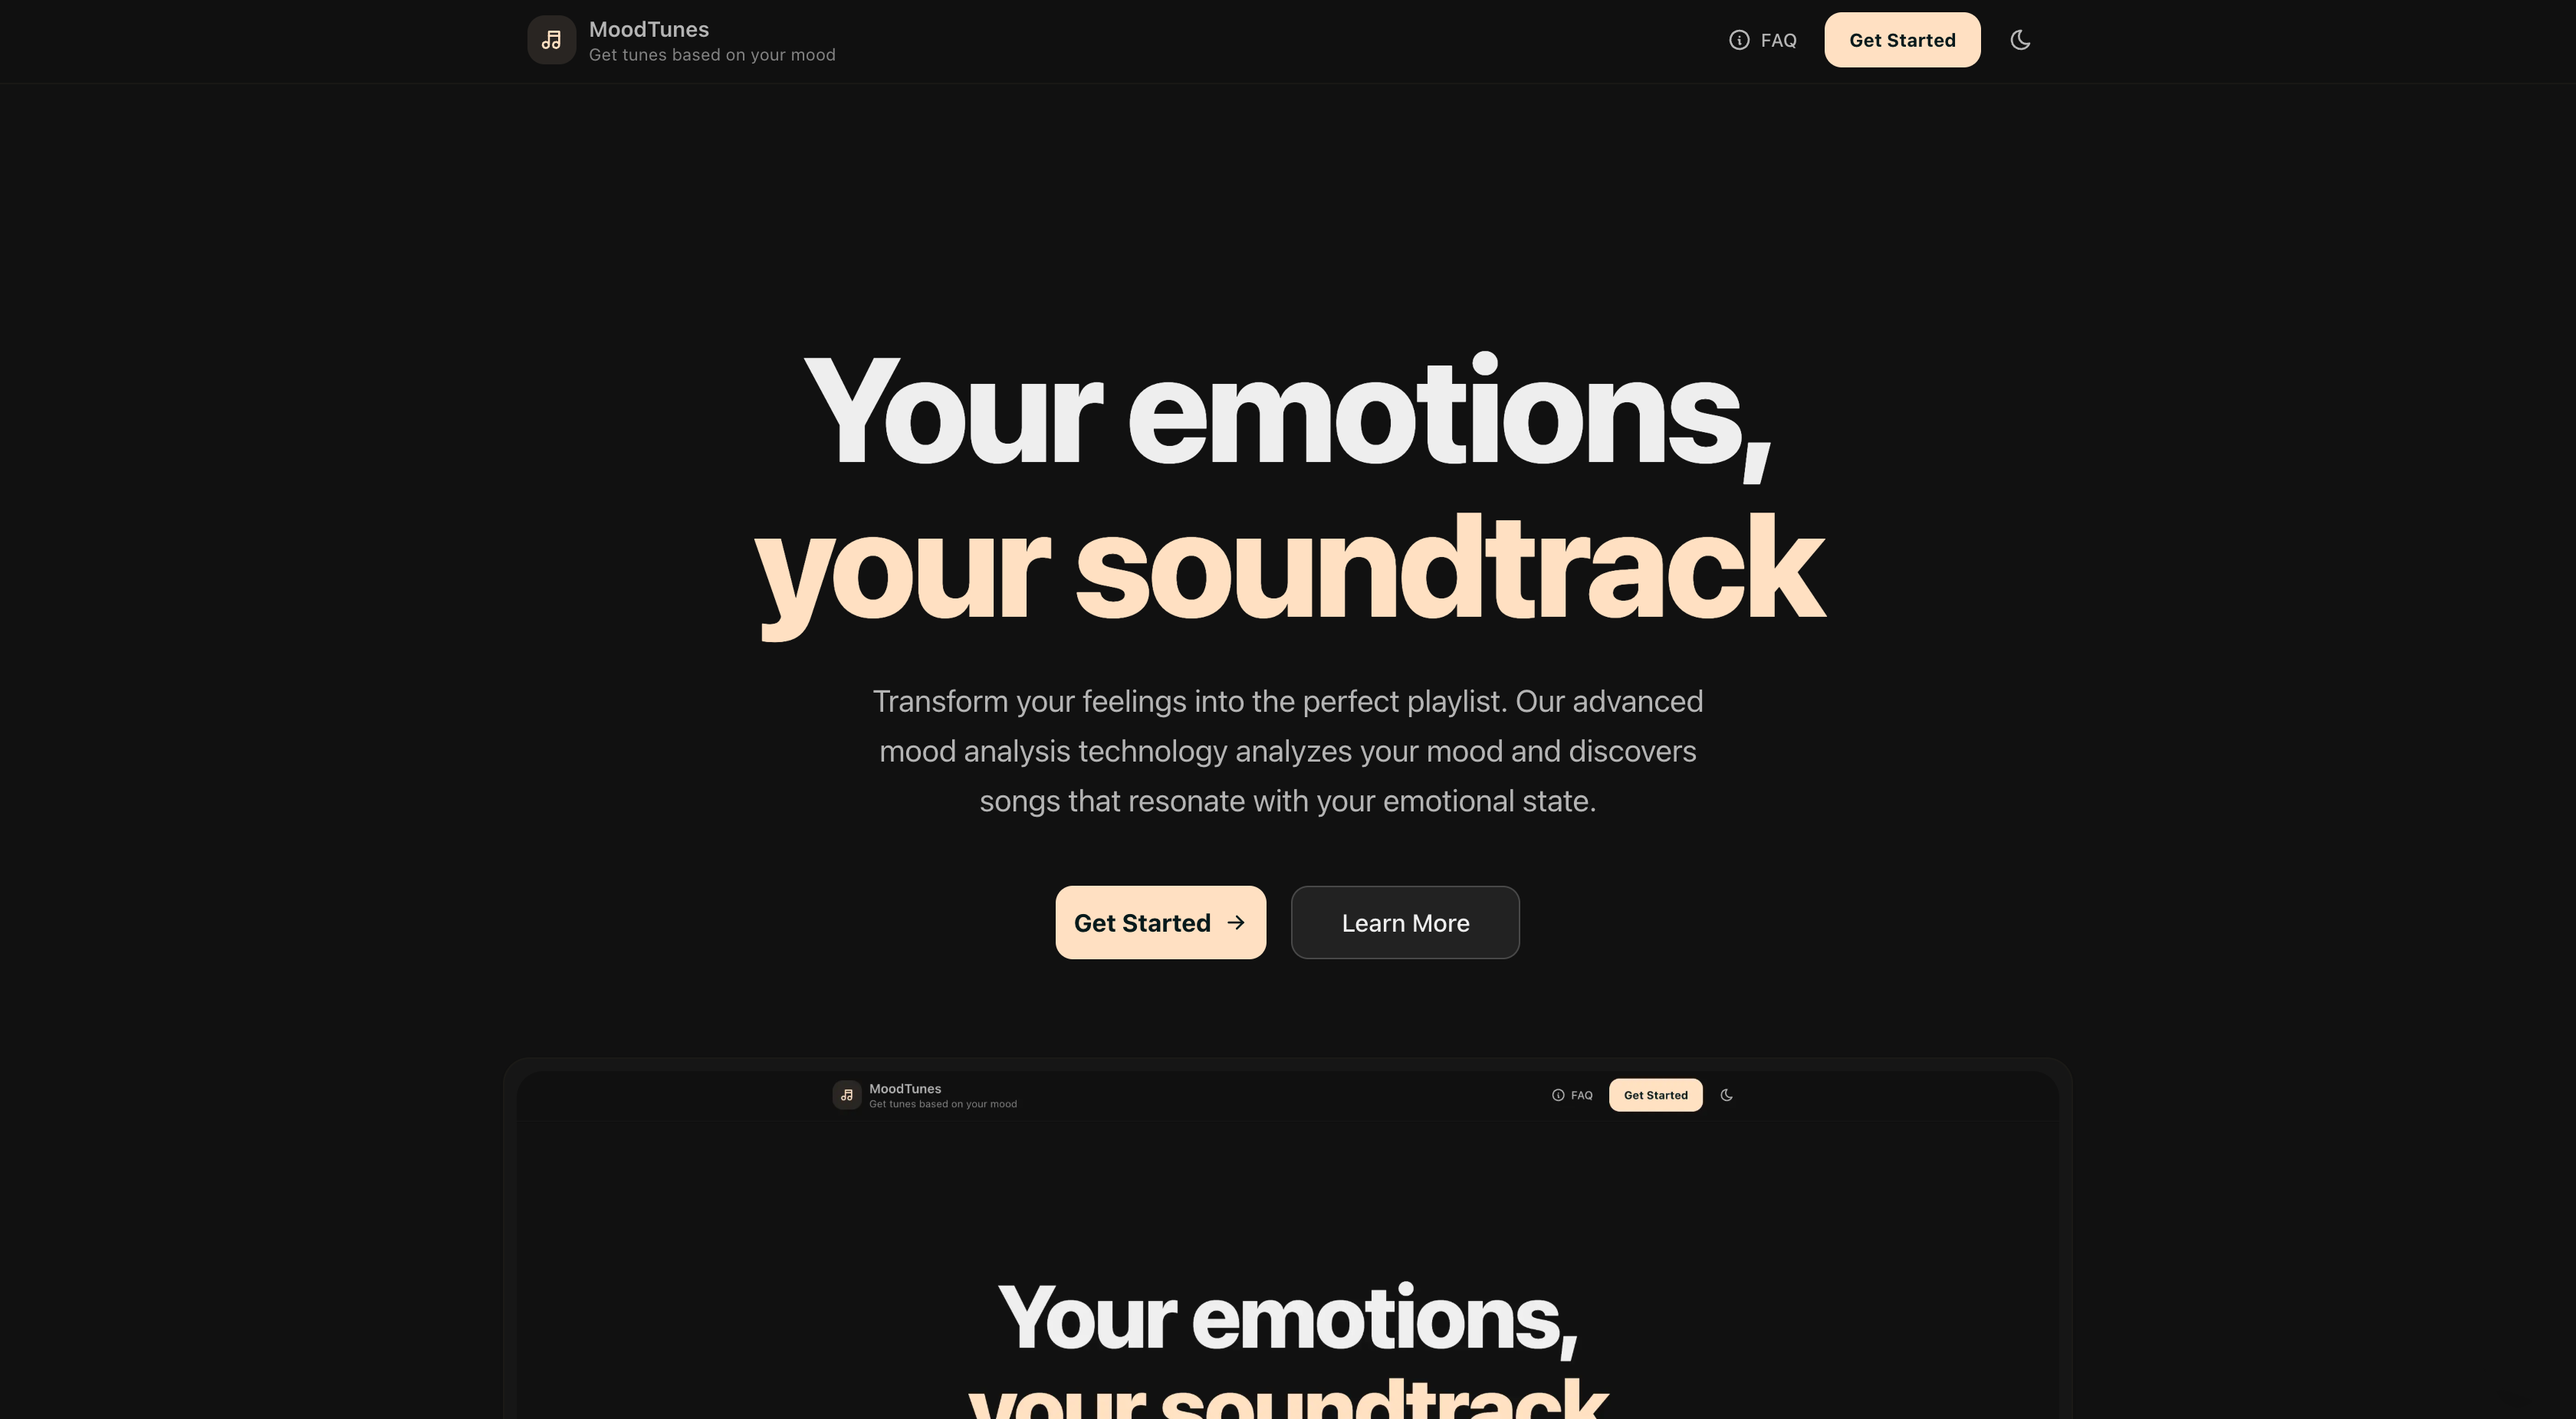
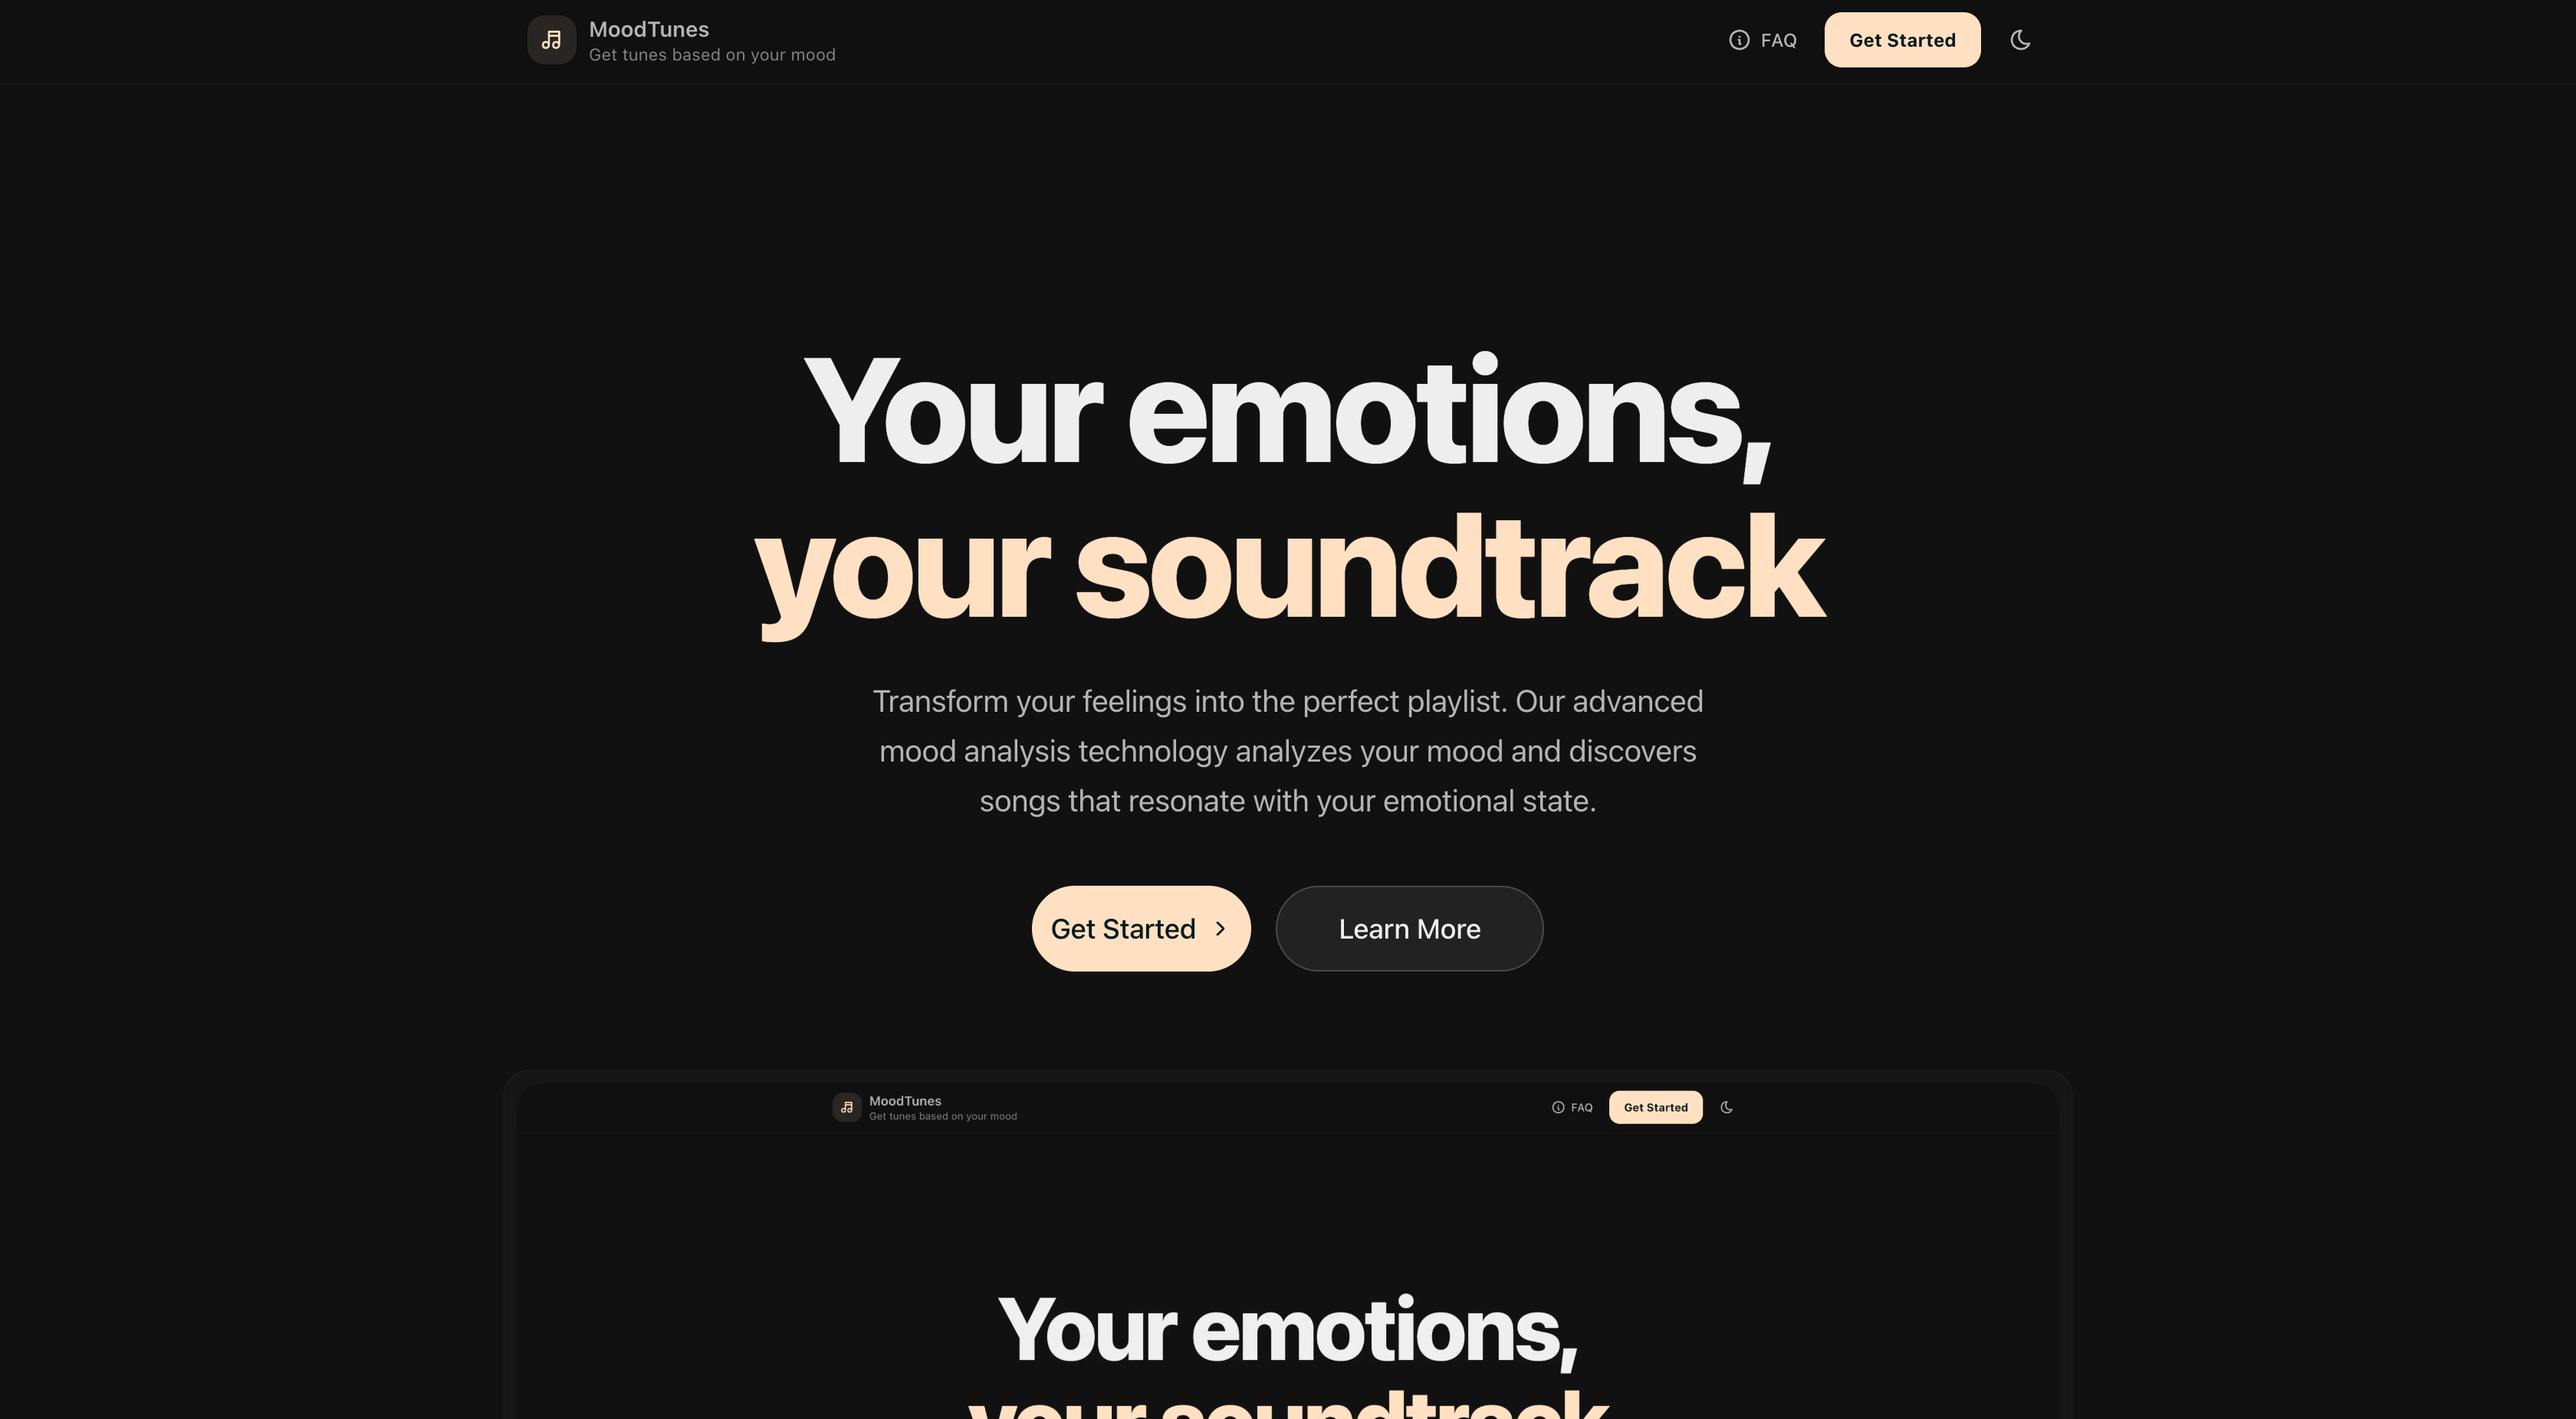
fix landing buttons

diff --git a/src/app/page.jsx b/src/app/page.jsx
@@ -9,7 +9,7 @@ import {
   IconSearch,
   IconMusic,
   IconMessageHeart,
-  IconArrowRight,
+  IconChevronRight,
 } from "@tabler/icons-react";
 import { Button } from "@/components/ui/button";
 import { Card, CardContent, CardHeader, CardTitle } from "@/components/ui/card";
@@ -121,16 +121,16 @@ export default function HomePage() {
 
           <div className="flex flex-col sm:flex-row gap-4 justify-center items-center">
             <Button
-              className="px-8 h-12 text-base font-bold transition-all hover:shadow-lg group cursor-pointer"
+              className="px-10 h-14 text-lg rounded-full transition-all hover:scale-105 group cursor-pointer"
               onClick={handleGetStarted}
             >
               Get Started
-              <IconArrowRight className="h-4 w-4 group-hover:translate-x-1 transition-transform" />
+              <IconChevronRight className="group-hover:translate-x-1 transition-transform" />
             </Button>
 
             <Button
               variant="outline"
-              className="px-8 h-12 text-base font-medium transition-all hover:bg-secondary/80 cursor-pointer"
+              className="px-10 h-14 text-lg rounded-full transition-all hover:scale-105 cursor-pointer"
               onClick={handleScrollToAbout}
             >
               Learn More
